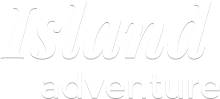
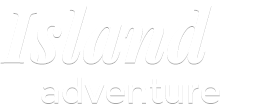
add new images

diff --git a/BA_Bermuda/css/style.css b/BA_Bermuda/css/style.css
@@ -203,12 +203,12 @@ body {
 }
 
 .tab1 .tab-content {
-    background: url(../images/tab1.jpg) center top no-repeat;
+    background: url(../images/tab1New.jpg) center top no-repeat;
     background-position: 50%;
 }
 
 .tab2 .tab-content {
-    background: url(../images/tab2.jpg) center top no-repeat;
+    background: url(../images/tab2New.jpg) center top no-repeat;
     background-position: 50%;
 }
 
